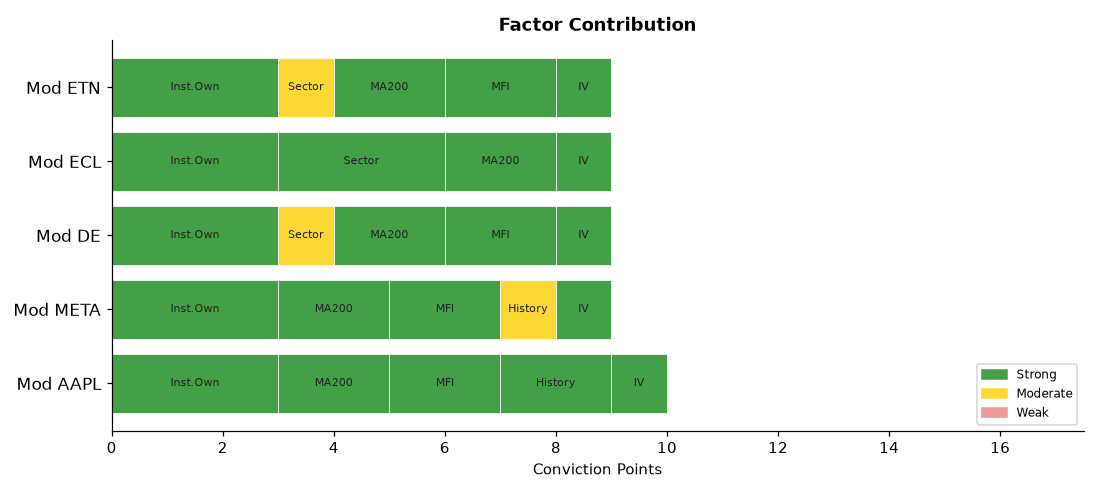
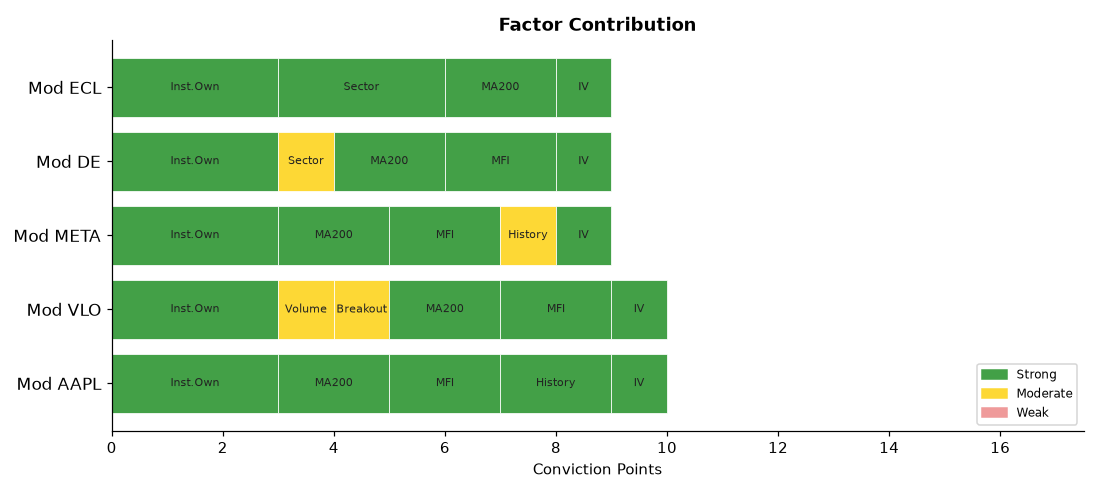
deploy: b7fadf5b06deb90e7ebb92f278722414bdd9750d

diff --git a/index.html b/index.html
@@ -4,7 +4,7 @@
   <meta charset="UTF-8">
   <meta name="viewport" content="width=device-width,initial-scale=1">
   <meta http-equiv="Cache-Control" content="no-cache,no-store,must-revalidate">
-  <title>Stock Breakout Screener — 2026-09-23 17:39</title>
+  <title>Stock Breakout Screener — 2026-09-23 17:54</title>
   <style>
     *{box-sizing:border-box;margin:0;padding:0}
     body{font-family:'Segoe UI',Arial,sans-serif;background:#f0f2f5;
@@ -34,7 +34,7 @@
 
 <div class="hdr">
   <h1>📈 Stock Breakout Screener</h1>
-  <p>Updated: 2026-09-23 17:39 UTC &nbsp;·&nbsp; Phase: Regular Market Hours &nbsp;·&nbsp;
+  <p>Updated: 2026-09-23 17:54 UTC &nbsp;·&nbsp; Phase: Regular Market Hours &nbsp;·&nbsp;
      129 stocks screened &nbsp;·&nbsp; Top 5 by conviction score</p>
 </div>
 
@@ -69,7 +69,7 @@
             </span>
           </div>
           <ul style="margin:0;padding-left:18px;font-size:13px;
-                     color:#333;line-height:1.8"><li style="margin:5px 0"><span style="background:#ffebee;color:#b71c1c;padding:2px 7px;border-radius:4px;font-size:11px;">❌</span> Volume: <b>0.3× average</b> — Above-average activity</li><li style="margin:5px 0"><span style="background:#ffebee;color:#b71c1c;padding:2px 7px;border-radius:4px;font-size:11px;">❌</span> Candle: close <b>$337.10</b> vs open <b>$341.08</b> (-1.2%) — regular market close</li><li style="margin:5px 0"><span style="background:#e8f5e9;color:#2e7d32;padding:2px 7px;border-radius:4px;font-size:11px;">✅</span> 200-Day MA: price <b>$337.10</b> vs MA <b>$299.20</b> — <b>✅ Above</b> long-term trend</li><li style="margin:5px 0"><span style="background:#e8f5e9;color:#2e7d32;padding:2px 7px;border-radius:4px;font-size:11px;">✅</span> Inst. ownership: <b>66.3%</b> · MFI: <b>72.6</b> · Market cap: <b>$4920.0B</b></li><li style="margin:5px 0"><span style="background:#e8f5e9;color:#2e7d32;padding:2px 7px;border-radius:4px;font-size:11px;">✅</span> Last similar breakout: <b>Jun 26, 2026</b> → <b>+11.8%</b> over 10 trading days</li></ul>
+                     color:#333;line-height:1.8"><li style="margin:5px 0"><span style="background:#ffebee;color:#b71c1c;padding:2px 7px;border-radius:4px;font-size:11px;">❌</span> Volume: <b>0.3× average</b> — Above-average activity</li><li style="margin:5px 0"><span style="background:#ffebee;color:#b71c1c;padding:2px 7px;border-radius:4px;font-size:11px;">❌</span> Candle: close <b>$337.31</b> vs open <b>$341.08</b> (-1.1%) — regular market close</li><li style="margin:5px 0"><span style="background:#e8f5e9;color:#2e7d32;padding:2px 7px;border-radius:4px;font-size:11px;">✅</span> 200-Day MA: price <b>$337.31</b> vs MA <b>$299.20</b> — <b>✅ Above</b> long-term trend</li><li style="margin:5px 0"><span style="background:#e8f5e9;color:#2e7d32;padding:2px 7px;border-radius:4px;font-size:11px;">✅</span> Inst. ownership: <b>66.3%</b> · MFI: <b>72.6</b> · Market cap: <b>$4922.0B</b></li><li style="margin:5px 0"><span style="background:#e8f5e9;color:#2e7d32;padding:2px 7px;border-radius:4px;font-size:11px;">✅</span> Last similar breakout: <b>Jun 26, 2026</b> → <b>+11.8%</b> over 10 trading days</li></ul>
         </div>
         <div style="background:#fff;border:1px solid #ddd;border-radius:10px;
                     padding:16px 20px;margin-bottom:12px;
@@ -77,7 +77,24 @@
           <div style="display:flex;align-items:center;gap:10px;
                       flex-wrap:wrap;margin-bottom:10px">
             <span style="font-size:22px">🟡</span>
-            <span style="font-size:19px;font-weight:700">2. META</span>
+            <span style="font-size:19px;font-weight:700">2. VLO</span>
+            <span style="font-size:12px;color:#666">Energy</span>
+            <span style="margin-left:auto;background:#1a237e;color:#fff;
+                         padding:3px 12px;border-radius:12px;
+                         font-size:13px;font-weight:600">
+              10/17
+            </span>
+          </div>
+          <ul style="margin:0;padding-left:18px;font-size:13px;
+                     color:#333;line-height:1.8"><li style="margin:5px 0"><span style="background:#fffde7;color:#f57f17;padding:2px 7px;border-radius:4px;font-size:11px;">⚠</span> Volume: <b>1.7× average</b> — Above-average activity</li><li style="margin:5px 0"><span style="background:#fffde7;color:#f57f17;padding:2px 7px;border-radius:4px;font-size:11px;">⚠</span> Candle: close <b>$367.80</b> vs open <b>$380.43</b> (-3.3%) — regular market close</li><li style="margin:5px 0"><span style="background:#e8f5e9;color:#2e7d32;padding:2px 7px;border-radius:4px;font-size:11px;">✅</span> 200-Day MA: price <b>$367.80</b> vs MA <b>$284.44</b> — <b>✅ Above</b> long-term trend</li><li style="margin:5px 0"><span style="background:#e8f5e9;color:#2e7d32;padding:2px 7px;border-radius:4px;font-size:11px;">✅</span> Inst. ownership: <b>87.0%</b> · MFI: <b>69.6</b> · Market cap: <b>$106.1B</b></li></ul>
+        </div>
+        <div style="background:#fff;border:1px solid #ddd;border-radius:10px;
+                    padding:16px 20px;margin-bottom:12px;
+                    box-shadow:0 2px 6px rgba(0,0,0,.07)">
+          <div style="display:flex;align-items:center;gap:10px;
+                      flex-wrap:wrap;margin-bottom:10px">
+            <span style="font-size:22px">🟡</span>
+            <span style="font-size:19px;font-weight:700">3. META</span>
             <span style="font-size:12px;color:#666">Comm. Services</span>
             <span style="margin-left:auto;background:#1a237e;color:#fff;
                          padding:3px 12px;border-radius:12px;
@@ -86,7 +103,7 @@
             </span>
           </div>
           <ul style="margin:0;padding-left:18px;font-size:13px;
-                     color:#333;line-height:1.8"><li style="margin:5px 0"><span style="background:#ffebee;color:#b71c1c;padding:2px 7px;border-radius:4px;font-size:11px;">❌</span> Volume: <b>1.2× average</b> — Above-average activity</li><li style="margin:5px 0"><span style="background:#ffebee;color:#b71c1c;padding:2px 7px;border-radius:4px;font-size:11px;">❌</span> Candle: close <b>$748.59</b> vs open <b>$747.95</b> (+0.1%) — regular market close</li><li style="margin:5px 0"><span style="background:#e8f5e9;color:#2e7d32;padding:2px 7px;border-radius:4px;font-size:11px;">✅</span> 200-Day MA: price <b>$748.59</b> vs MA <b>$608.64</b> — <b>✅ Above</b> long-term trend</li><li style="margin:5px 0"><span style="background:#e8f5e9;color:#2e7d32;padding:2px 7px;border-radius:4px;font-size:11px;">✅</span> Inst. ownership: <b>79.0%</b> · MFI: <b>84.5</b> · Market cap: <b>$1907.1B</b></li><li style="margin:5px 0"><span style="background:#fffde7;color:#f57f17;padding:2px 7px;border-radius:4px;font-size:11px;">⚠</span> Last similar breakout: <b>Sep 21, 2026</b> → <b>+1.0%</b> over 10 trading days</li></ul>
+                     color:#333;line-height:1.8"><li style="margin:5px 0"><span style="background:#ffebee;color:#b71c1c;padding:2px 7px;border-radius:4px;font-size:11px;">❌</span> Volume: <b>1.2× average</b> — Above-average activity</li><li style="margin:5px 0"><span style="background:#ffebee;color:#b71c1c;padding:2px 7px;border-radius:4px;font-size:11px;">❌</span> Candle: close <b>$751.73</b> vs open <b>$747.95</b> (+0.5%) — regular market close</li><li style="margin:5px 0"><span style="background:#e8f5e9;color:#2e7d32;padding:2px 7px;border-radius:4px;font-size:11px;">✅</span> 200-Day MA: price <b>$751.73</b> vs MA <b>$608.67</b> — <b>✅ Above</b> long-term trend</li><li style="margin:5px 0"><span style="background:#e8f5e9;color:#2e7d32;padding:2px 7px;border-radius:4px;font-size:11px;">✅</span> Inst. ownership: <b>79.0%</b> · MFI: <b>84.5</b> · Market cap: <b>$1914.6B</b></li><li style="margin:5px 0"><span style="background:#fffde7;color:#f57f17;padding:2px 7px;border-radius:4px;font-size:11px;">⚠</span> Last similar breakout: <b>Sep 21, 2026</b> → <b>+1.4%</b> over 10 trading days</li></ul>
         </div>
         <div style="background:#fff;border:1px solid #ddd;border-radius:10px;
                     padding:16px 20px;margin-bottom:12px;
@@ -94,7 +111,7 @@
           <div style="display:flex;align-items:center;gap:10px;
                       flex-wrap:wrap;margin-bottom:10px">
             <span style="font-size:22px">🟡</span>
-            <span style="font-size:19px;font-weight:700">3. DE</span>
+            <span style="font-size:19px;font-weight:700">4. DE</span>
             <span style="font-size:12px;color:#666">Industrials</span>
             <span style="margin-left:auto;background:#1a237e;color:#fff;
                          padding:3px 12px;border-radius:12px;
@@ -103,7 +120,7 @@
             </span>
           </div>
           <ul style="margin:0;padding-left:18px;font-size:13px;
-                     color:#333;line-height:1.8"><li style="margin:5px 0"><span style="background:#ffebee;color:#b71c1c;padding:2px 7px;border-radius:4px;font-size:11px;">❌</span> Volume: <b>0.6× average</b> — Above-average activity</li><li style="margin:5px 0"><span style="background:#ffebee;color:#b71c1c;padding:2px 7px;border-radius:4px;font-size:11px;">❌</span> Candle: close <b>$708.71</b> vs open <b>$702.05</b> (+0.9%) — regular market close</li><li style="margin:5px 0"><span style="background:#e8f5e9;color:#2e7d32;padding:2px 7px;border-radius:4px;font-size:11px;">✅</span> 200-Day MA: price <b>$708.71</b> vs MA <b>$601.36</b> — <b>✅ Above</b> long-term trend</li><li style="margin:5px 0"><span style="background:#e8f5e9;color:#2e7d32;padding:2px 7px;border-radius:4px;font-size:11px;">✅</span> Inst. ownership: <b>84.5%</b> · MFI: <b>72.3</b> · Market cap: <b>$191.1B</b></li></ul>
+                     color:#333;line-height:1.8"><li style="margin:5px 0"><span style="background:#ffebee;color:#b71c1c;padding:2px 7px;border-radius:4px;font-size:11px;">❌</span> Volume: <b>0.6× average</b> — Above-average activity</li><li style="margin:5px 0"><span style="background:#ffebee;color:#b71c1c;padding:2px 7px;border-radius:4px;font-size:11px;">❌</span> Candle: close <b>$709.16</b> vs open <b>$702.05</b> (+1.0%) — regular market close</li><li style="margin:5px 0"><span style="background:#e8f5e9;color:#2e7d32;padding:2px 7px;border-radius:4px;font-size:11px;">✅</span> 200-Day MA: price <b>$709.16</b> vs MA <b>$601.37</b> — <b>✅ Above</b> long-term trend</li><li style="margin:5px 0"><span style="background:#e8f5e9;color:#2e7d32;padding:2px 7px;border-radius:4px;font-size:11px;">✅</span> Inst. ownership: <b>84.5%</b> · MFI: <b>72.3</b> · Market cap: <b>$191.2B</b></li></ul>
         </div>
         <div style="background:#fff;border:1px solid #ddd;border-radius:10px;
                     padding:16px 20px;margin-bottom:12px;
@@ -111,7 +128,7 @@
           <div style="display:flex;align-items:center;gap:10px;
                       flex-wrap:wrap;margin-bottom:10px">
             <span style="font-size:22px">🟡</span>
-            <span style="font-size:19px;font-weight:700">4. ECL</span>
+            <span style="font-size:19px;font-weight:700">5. ECL</span>
             <span style="font-size:12px;color:#666">Materials</span>
             <span style="margin-left:auto;background:#1a237e;color:#fff;
                          padding:3px 12px;border-radius:12px;
@@ -120,24 +137,7 @@
             </span>
           </div>
           <ul style="margin:0;padding-left:18px;font-size:13px;
-                     color:#333;line-height:1.8"><li style="margin:5px 0"><span style="background:#ffebee;color:#b71c1c;padding:2px 7px;border-radius:4px;font-size:11px;">❌</span> Volume: <b>0.5× average</b> — Above-average activity</li><li style="margin:5px 0"><span style="background:#ffebee;color:#b71c1c;padding:2px 7px;border-radius:4px;font-size:11px;">❌</span> Candle: close <b>$269.98</b> vs open <b>$272.10</b> (-0.8%) — regular market close</li><li style="margin:5px 0"><span style="background:#e8f5e9;color:#2e7d32;padding:2px 7px;border-radius:4px;font-size:11px;">✅</span> 200-Day MA: price <b>$269.98</b> vs MA <b>$268.97</b> — <b>✅ Above</b> long-term trend</li><li style="margin:5px 0"><span style="background:#e8f5e9;color:#2e7d32;padding:2px 7px;border-radius:4px;font-size:11px;">✅</span> Inst. ownership: <b>94.1%</b> · MFI: <b>20.7</b> · Market cap: <b>$77.5B</b></li></ul>
-        </div>
-        <div style="background:#fff;border:1px solid #ddd;border-radius:10px;
-                    padding:16px 20px;margin-bottom:12px;
-                    box-shadow:0 2px 6px rgba(0,0,0,.07)">
-          <div style="display:flex;align-items:center;gap:10px;
-                      flex-wrap:wrap;margin-bottom:10px">
-            <span style="font-size:22px">🟡</span>
-            <span style="font-size:19px;font-weight:700">5. ETN</span>
-            <span style="font-size:12px;color:#666">Industrials</span>
-            <span style="margin-left:auto;background:#1a237e;color:#fff;
-                         padding:3px 12px;border-radius:12px;
-                         font-size:13px;font-weight:600">
-              9/17
-            </span>
-          </div>
-          <ul style="margin:0;padding-left:18px;font-size:13px;
-                     color:#333;line-height:1.8"><li style="margin:5px 0"><span style="background:#ffebee;color:#b71c1c;padding:2px 7px;border-radius:4px;font-size:11px;">❌</span> Volume: <b>0.3× average</b> — Above-average activity</li><li style="margin:5px 0"><span style="background:#ffebee;color:#b71c1c;padding:2px 7px;border-radius:4px;font-size:11px;">❌</span> Candle: close <b>$437.96</b> vs open <b>$442.56</b> (-1.0%) — regular market close</li><li style="margin:5px 0"><span style="background:#e8f5e9;color:#2e7d32;padding:2px 7px;border-radius:4px;font-size:11px;">✅</span> 200-Day MA: price <b>$437.96</b> vs MA <b>$405.43</b> — <b>✅ Above</b> long-term trend</li><li style="margin:5px 0"><span style="background:#e8f5e9;color:#2e7d32;padding:2px 7px;border-radius:4px;font-size:11px;">✅</span> Inst. ownership: <b>87.9%</b> · MFI: <b>73.3</b> · Market cap: <b>$170.1B</b></li></ul>
+                     color:#333;line-height:1.8"><li style="margin:5px 0"><span style="background:#ffebee;color:#b71c1c;padding:2px 7px;border-radius:4px;font-size:11px;">❌</span> Volume: <b>0.5× average</b> — Above-average activity</li><li style="margin:5px 0"><span style="background:#ffebee;color:#b71c1c;padding:2px 7px;border-radius:4px;font-size:11px;">❌</span> Candle: close <b>$269.98</b> vs open <b>$272.10</b> (-0.8%) — regular market close</li><li style="margin:5px 0"><span style="background:#e8f5e9;color:#2e7d32;padding:2px 7px;border-radius:4px;font-size:11px;">✅</span> 200-Day MA: price <b>$269.98</b> vs MA <b>$268.97</b> — <b>✅ Above</b> long-term trend</li><li style="margin:5px 0"><span style="background:#e8f5e9;color:#2e7d32;padding:2px 7px;border-radius:4px;font-size:11px;">✅</span> Inst. ownership: <b>94.1%</b> · MFI: <b>20.8</b> · Market cap: <b>$77.6B</b></li></ul>
         </div>
 
 
@@ -170,7 +170,7 @@
           <td style="font-weight:700;text-align:left;padding-left:10px">
             🟡 AAPL</td>
           <td style="background:#ffcdd2">0.3×</td>
-          <td style="background:#ffcdd2">-1.2%</td>
+          <td style="background:#ffcdd2">-1.1%</td>
           <td style="background:#c8e6c9">
             ▲ Above</td>
           <td style="background:#c8e6c9">
@@ -179,16 +179,34 @@
             72.6</td>
           <td style="background:#ffcdd2">Technology</td>
           <td style="background:#c8e6c9">
-            102.7%</td>
+            99.3%</td>
           <td style="background:#c8e6c9">
             +11.8%</td>
           <td style="font-weight:800;font-size:15px">10/17</td>
         </tr>
         <tr>
           <td style="font-weight:700;text-align:left;padding-left:10px">
+            🟡 VLO</td>
+          <td style="background:#fff9c4">1.7×</td>
+          <td style="background:#fff9c4">-3.3%</td>
+          <td style="background:#c8e6c9">
+            ▲ Above</td>
+          <td style="background:#c8e6c9">
+            87.0%</td>
+          <td style="background:#c8e6c9">
+            69.6</td>
+          <td style="background:#ffcdd2">Energy</td>
+          <td style="background:#c8e6c9">
+            111.0%</td>
+          <td style="background:#ffcdd2">
+            N/A</td>
+          <td style="font-weight:800;font-size:15px">10/17</td>
+        </tr>
+        <tr>
+          <td style="font-weight:700;text-align:left;padding-left:10px">
             🟡 META</td>
           <td style="background:#ffcdd2">1.2×</td>
-          <td style="background:#ffcdd2">+0.1%</td>
+          <td style="background:#ffcdd2">+0.5%</td>
           <td style="background:#c8e6c9">
             ▲ Above</td>
           <td style="background:#c8e6c9">
@@ -197,16 +215,16 @@
             84.5</td>
           <td style="background:#ffcdd2">Comm. Services</td>
           <td style="background:#c8e6c9">
-            139.4%</td>
+            61.8%</td>
           <td style="background:#fff9c4">
-            +1.0%</td>
+            +1.4%</td>
           <td style="font-weight:800;font-size:15px">9/17</td>
         </tr>
         <tr>
           <td style="font-weight:700;text-align:left;padding-left:10px">
             🟡 DE</td>
           <td style="background:#ffcdd2">0.6×</td>
-          <td style="background:#ffcdd2">+0.9%</td>
+          <td style="background:#ffcdd2">+1.0%</td>
           <td style="background:#c8e6c9">
             ▲ Above</td>
           <td style="background:#c8e6c9">
@@ -215,7 +233,7 @@
             72.3</td>
           <td style="background:#fff9c4">Industrials</td>
           <td style="background:#c8e6c9">
-            56.0%</td>
+            55.3%</td>
           <td style="background:#ffcdd2">
             N/A</td>
           <td style="font-weight:800;font-size:15px">9/17</td>
@@ -230,28 +248,10 @@
           <td style="background:#c8e6c9">
             94.1%</td>
           <td style="background:#ffcdd2">
-            20.7</td>
+            20.8</td>
           <td style="background:#c8e6c9">Materials</td>
           <td style="background:#c8e6c9">
-            51.3%</td>
-          <td style="background:#ffcdd2">
-            N/A</td>
-          <td style="font-weight:800;font-size:15px">9/17</td>
-        </tr>
-        <tr>
-          <td style="font-weight:700;text-align:left;padding-left:10px">
-            🟡 ETN</td>
-          <td style="background:#ffcdd2">0.3×</td>
-          <td style="background:#ffcdd2">-1.0%</td>
-          <td style="background:#c8e6c9">
-            ▲ Above</td>
-          <td style="background:#c8e6c9">
-            87.9%</td>
-          <td style="background:#c8e6c9">
-            73.3</td>
-          <td style="background:#fff9c4">Industrials</td>
-          <td style="background:#c8e6c9">
-            69.5%</td>
+            49.8%</td>
           <td style="background:#ffcdd2">
             N/A</td>
           <td style="font-weight:800;font-size:15px">9/17</td>
@@ -278,57 +278,57 @@
         <tr>
           <td style="text-align:left;padding-left:10px;font-weight:600">
             #1 Materials</td>
-          <td style="background:#e8f5e9;color:#2e7d32;font-weight:700">+1.31%</td>
+          <td style="background:#e8f5e9;color:#2e7d32;font-weight:700">+1.54%</td>
         </tr>
         <tr>
           <td style="text-align:left;padding-left:10px;font-weight:600">
             #2 Consumer Stpl</td>
-          <td style="background:#e8f5e9;color:#2e7d32;font-weight:700">+0.59%</td>
+          <td style="background:#e8f5e9;color:#2e7d32;font-weight:700">+0.70%</td>
         </tr>
         <tr>
           <td style="text-align:left;padding-left:10px;font-weight:600">
             #3 Industrials</td>
-          <td style="background:#e8f5e9;color:#2e7d32;font-weight:700">+0.23%</td>
+          <td style="background:#e8f5e9;color:#2e7d32;font-weight:700">+0.37%</td>
         </tr>
         <tr>
           <td style="text-align:left;padding-left:10px;font-weight:600">
-            #4 Energy</td>
-          <td style="background:#ffebee;color:#c62828;font-weight:700">-0.06%</td>
+            #4 Technology</td>
+          <td style="background:#e8f5e9;color:#2e7d32;font-weight:700">+0.11%</td>
         </tr>
         <tr>
           <td style="text-align:left;padding-left:10px;font-weight:600">
-            #5 Technology</td>
-          <td style="background:#ffebee;color:#c62828;font-weight:700">-0.07%</td>
+            #5 Energy</td>
+          <td style="background:#ffebee;color:#c62828;font-weight:700">-0.08%</td>
         </tr>
         <tr>
           <td style="text-align:left;padding-left:10px;font-weight:600">
             #6 Healthcare</td>
-          <td style="background:#ffebee;color:#c62828;font-weight:700">-0.39%</td>
+          <td style="background:#ffebee;color:#c62828;font-weight:700">-0.30%</td>
         </tr>
         <tr>
           <td style="text-align:left;padding-left:10px;font-weight:600">
             #7 Real Estate</td>
-          <td style="background:#ffebee;color:#c62828;font-weight:700">-1.30%</td>
+          <td style="background:#ffebee;color:#c62828;font-weight:700">-1.23%</td>
         </tr>
         <tr>
           <td style="text-align:left;padding-left:10px;font-weight:600">
             #8 Consumer Disc</td>
-          <td style="background:#ffebee;color:#c62828;font-weight:700">-1.44%</td>
+          <td style="background:#ffebee;color:#c62828;font-weight:700">-1.29%</td>
         </tr>
         <tr>
           <td style="text-align:left;padding-left:10px;font-weight:600">
             #9 Comm. Services</td>
-          <td style="background:#ffebee;color:#c62828;font-weight:700">-1.55%</td>
+          <td style="background:#ffebee;color:#c62828;font-weight:700">-1.38%</td>
         </tr>
         <tr>
           <td style="text-align:left;padding-left:10px;font-weight:600">
             #10 Utilities</td>
-          <td style="background:#ffebee;color:#c62828;font-weight:700">-1.77%</td>
+          <td style="background:#ffebee;color:#c62828;font-weight:700">-1.76%</td>
         </tr>
         <tr>
           <td style="text-align:left;padding-left:10px;font-weight:600">
             #11 Financials</td>
-          <td style="background:#ffebee;color:#c62828;font-weight:700">-2.08%</td>
+          <td style="background:#ffebee;color:#c62828;font-weight:700">-2.00%</td>
         </tr>
     </table>
   </div>
@@ -367,7 +367,7 @@
         <li><b>Scoring weights:</b>
             Inst.Own(3) · Sector(3) · Volume(2) · Breakout(2) ·
             MA200(2) · MFI(2) · History(2) · IV(1) = 17pts max</li>
-        <li><b>Run time:</b> 2026-09-23 17:39 UTC — Market phase: Regular Market Hours</li>
+        <li><b>Run time:</b> 2026-09-23 17:54 UTC — Market phase: Regular Market Hours</li>
       </ul>
     </div>
 
